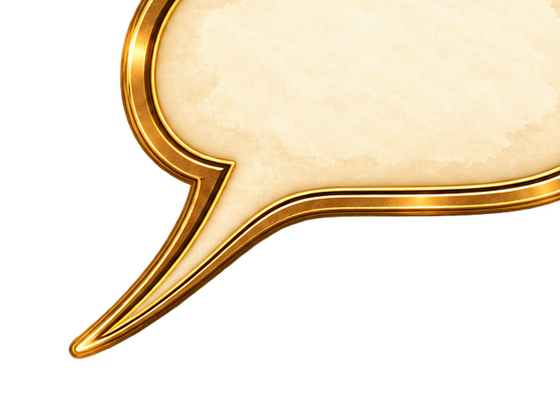
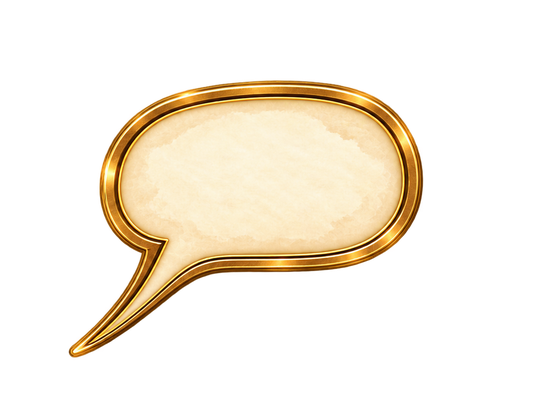
Add files via upload

diff --git a/css/ticket-booth-hand.css b/css/ticket-booth-hand.css
@@ -111,12 +111,12 @@ body.mq-exterior-active #mqTicketBoothHotspot::before{
   content:"";
   position:absolute;
   left:171px;
-  top:-46px;
-  width:281px;
-  height:211px;
+  top:4px;
+  width:169px;
+  height:127px;
   z-index:17;
   pointer-events:none;
-  background:url("../assets/exterior-v6-9/production/ticket-booth-bubble-loop.webp?v=10.2") center center / 100% 100% no-repeat;
+  background:url("../assets/exterior-v6-9/production/ticket-booth-bubble-loop.webp?v=10.3") center center / 100% 100% no-repeat;
   image-rendering:auto;
 }
 
@@ -124,10 +124,10 @@ body.mq-exterior-active #mqTicketBoothHotspot::before{
 body.mq-exterior-active #mqTicketBoothHotspot::after{
   content:"Pojďte sem, máme\A poslední volná místa!";
   position:absolute;
-  left:226px;
-  top:7px;
-  width:170px;
-  min-height:60px;
+  left:197px;
+  top:40px;
+  width:118px;
+  min-height:52px;
   z-index:18;
   display:flex;
   align-items:center;
@@ -136,7 +136,7 @@ body.mq-exterior-active #mqTicketBoothHotspot::after{
   white-space:pre-line;
   color:#15110d;
   font-family:"Bebas Neue","Oswald","Arial Narrow","Aptos","Segoe UI",sans-serif;
-  font-size:24px;
+  font-size:17px;
   line-height:1.02;
   letter-spacing:.025em;
   text-shadow:0 1px 0 rgba(255,255,255,.22);

diff --git a/css/debug-grid.css b/css/debug-grid.css
@@ -9,7 +9,7 @@
 @import url("cinema-ui-v53-9.css?v=53.9");
 @import url("cinema-ui-v53-10.css?v=53.10");
 @import url("cinema-ui-v53-12.css?v=53.12");
-@import url("ticket-booth-hand.css?v=10.2");
+@import url("ticket-booth-hand.css?v=10.3");
 
 /* Movie Quiz – debug grid v47 restored */
 #mqDebugGridOverlay{position:fixed!important;left:0!important;top:0!important;width:0;height:0;margin:0!important;padding:0!important;border:0!important;overflow:hidden!important;display:none!important;pointer-events:none!important;z-index:2147483646!important;box-sizing:border-box!important}
